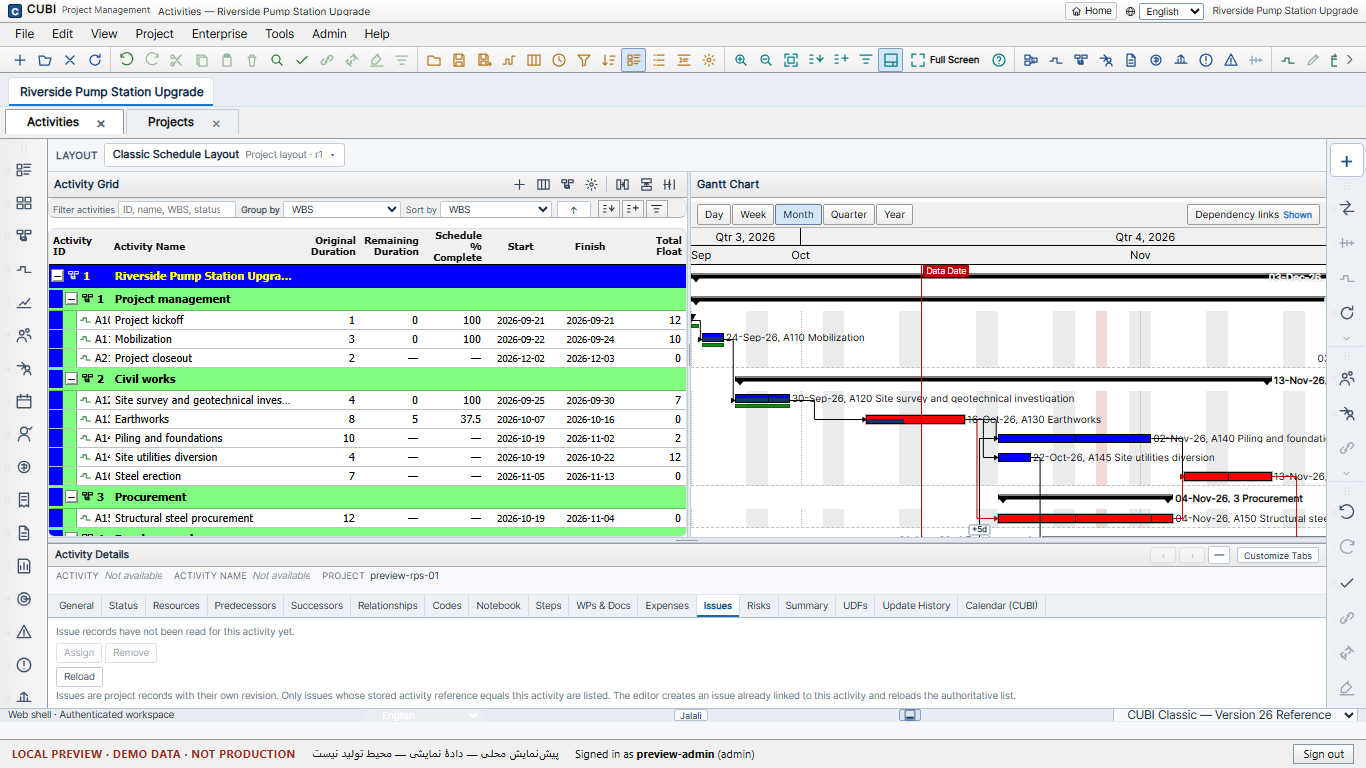
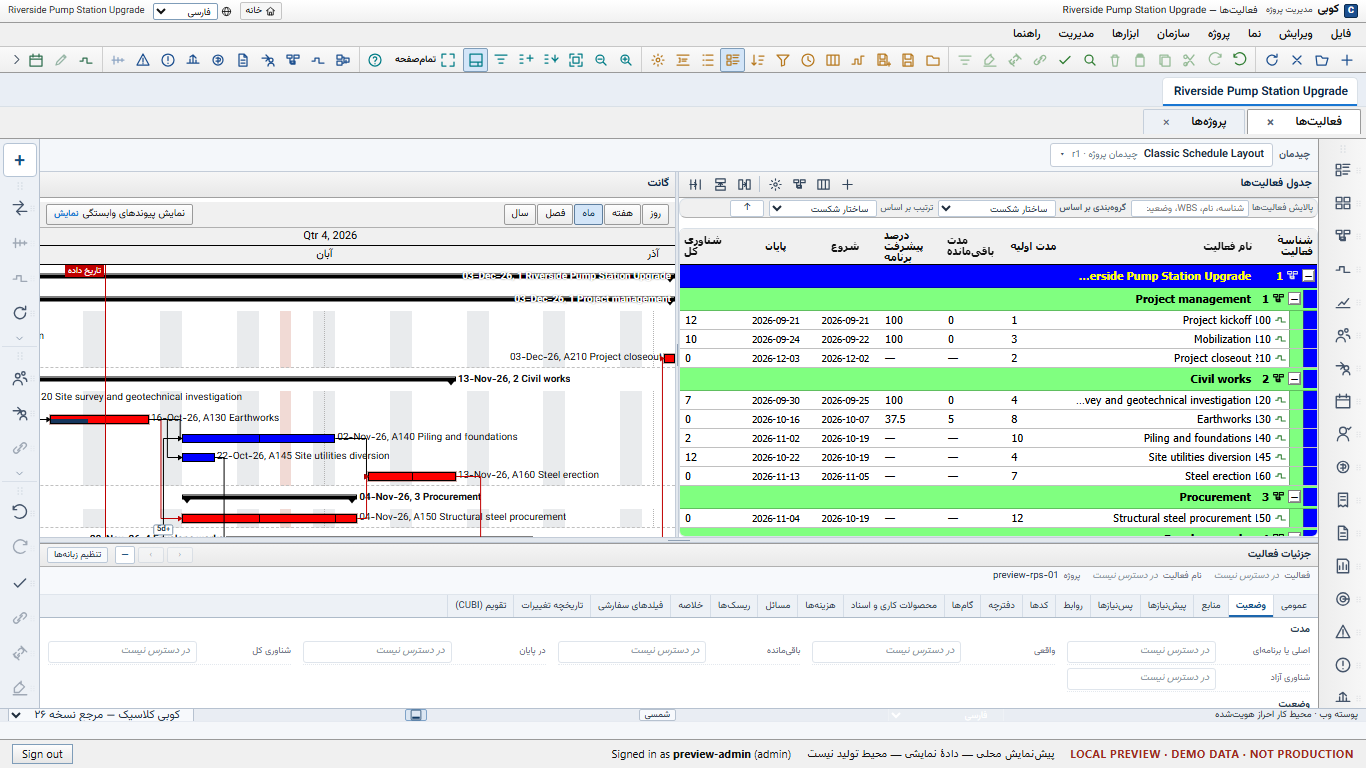
feat(activities): keyboard model for details tabs and V26 acceptance matrix
Only the active Activity Details tab is in the tab order, so keyboard users
had no way to move between tabs. ArrowLeft/ArrowRight, Home and End now move
focus, aria-selected and the visible panel together, wrap at both ends, and
follow the rendered text direction so Persian RTL advances with ArrowLeft.

The details browser suite asserts the full sequence in English and Persian and
records the result; the evidence bundle is regenerated from the passing run.
Adds the 18-column Activity workspace acceptance matrix with per-item status,
gap classification, owner and next action, and links it from the traceability
record without changing any file owned by another active PR.

diff --git a/apps/web/src/workspace-activity-details.ts b/apps/web/src/workspace-activity-details.ts
@@ -2353,9 +2353,33 @@ export function enhanceActivityDetails(
   });
 
   host.addEventListener("keydown", (event) => {
-    if (event.key !== "ContextMenu" && !(event.shiftKey && event.key === "F10")) return;
     const target = event.target as HTMLElement | null;
     if (!target || typeof target.closest !== "function") return;
+
+    // ARIA tablist keyboard model: only the active tab is in the tab order, so
+    // the arrow, Home and End keys must move both focus and selection. The
+    // horizontal direction follows the rendered text direction so Persian RTL
+    // does not reverse the user's expectation.
+    const tab = target.closest<HTMLElement>("[data-detail-tab]");
+    if (tab && ["ArrowLeft", "ArrowRight", "Home", "End"].includes(event.key)) {
+      const tabs = [...host.querySelectorAll<HTMLElement>("[data-detail-tab]")];
+      const current = tabs.indexOf(tab);
+      if (current < 0 || tabs.length === 0) return;
+      event.preventDefault();
+      const rtl = getComputedStyle(tab).direction === "rtl" || document.documentElement.dir === "rtl";
+      let next = current;
+      if (event.key === "Home") next = 0;
+      else if (event.key === "End") next = tabs.length - 1;
+      else if (event.key === "ArrowRight") next = rtl ? current - 1 : current + 1;
+      else next = rtl ? current + 1 : current - 1;
+      next = ((next % tabs.length) + tabs.length) % tabs.length;
+      const nextTab = tabs[next];
+      nextTab.focus();
+      nextTab.click();
+      return;
+    }
+
+    if (event.key !== "ContextMenu" && !(event.shiftKey && event.key === "F10")) return;
     if (target.closest("[data-details-customize-dialog]")) return;
     event.preventDefault();
     const anchor = target.closest<HTMLElement>("[data-detail-tab], .cp-details-head") ?? host;

diff --git a/docs/workspace/evidence/activity-workspace-v26-2026-11-18/acceptance-matrix.md b/docs/workspace/evidence/activity-workspace-v26-2026-11-18/acceptance-matrix.md
@@ -1,0 +1,88 @@
+# Activity Workspace — Version 26 Acceptance Matrix
+
+Scope: Issue #2047, CUBI Engineering Activities workspace.
+Code under test: branch `feat/2047-activity-workspace-v26`, head `a2b558bf` plus the
+keyboard-navigation increment in this directory's run (final SHA recorded in
+`summary.md` after the push).
+Reference: Oracle Primavera P6 Professional Version 26 HTML Help
+(`https://docs.oracle.com/cd/G48902_01/client_help/en_US/toc.htm`).
+The approximately 815-page supplied PDF is **MISSING / VERIFY** in this environment.
+
+Status vocabulary (exactly as required by the execution instruction):
+`مطابق و تأییدشده` · `پیادهسازیشده ولی آزموننشده` · `ناقص` · `غایب` ·
+`محدودیت مستند و مشخص` · `VERIFY` · `BLOCKED`
+
+"Verified today" means the browser suite was run on 2026-11-18 against this branch and the
+report is in `docs/workspace/evidence/` for that date. Older suites are named but were not
+re-run on the current head; they are therefore not marked as accepted.
+
+## 1. Activity Details tabs
+
+| # | Feature / Control | Official V26 Source | Navigation Path | Available Options | Default State | Visibility Conditions | Expected Behavior | Data Source | Permission | Validation | Error Behavior | Persistence | Test Coverage | Evidence Reference | Status | Blocker / Missing Dependency | Next Action | Owner |
+|---|---|---|---|---|---|---|---|---|---|---|---|---|---|---|---|---|---|---|
+| 1 | Activity Details — General (read) | general_tab_-_activity_details.htm | Activities › select row › Details › General | 6 activity types, 4 duration types, 4 percent-complete types shown; ID, cost account, leveling priority | First tab | Activity selected, Details pane visible | Shows stored Activity Master values; unknown values read "Not available" | `GET /p6/activities/{id}`; workspace read model cells | project.read | none | none | read-only | `activity-details-v26.mjs`, `activity-general-edit-v26.mjs` (today) | `evidence/activity-details-tabs-v26-2026-11-18/`, `evidence/activity-general-edit-v26-2026-11-18/` | مطابق و تأییدشده | — | — | Hasan |
+| 2 | Activity Details — General (edit) | general_tab_-_activity_details.htm; customize_activity_column_titles.htm | Details › General › Load editable fields | Name, activity type, duration type, percent-complete type, cost account | Loaded from record | `canWrite` and transport available | Loads record, PATCHes only changed fields with `expected_revision`; surfaces `REVISION_CONFLICT` | `PATCH /p6/activities/{id}` | project.write | name 1–180; enum membership | inline code, revision shown | yes, verified by reload | `workspace-activity-general.test.ts` (9), `activity-general-edit-v26.mjs` (today, EN + FA RTL 1280/1920) | `evidence/activity-general-edit-v26-2026-11-18/` | مطابق و تأییدشده | Grid repaint on next project read only (no refresh callback in owned files) | Add refresh callback after handoff | Hasan / #1716, #1983 |
+| 3 | Activity Details — Status | status_tab_-_activity_details.htm | Details › Status | read durations/status/units + constraint add/remove | Read | Activity selected | Shows stored values; constraint form writes through constraint API | activity master cells; `/p6/constraints` | project.write for constraints | date required | inline code | constraint write via API (suite not re-run today) | `activity-details-v26.mjs` (read state today) | `evidence/activity-details-tabs-v26-2026-11-18/` | پیادهسازیشده ولی آزموننشده | Constraint write path not re-run on current head | Re-run constraint scenario | Hasan |
+| 4 | Activity Details — Resources | resources_tab_-_activity_details.htm | Details › Resources | assignment rows + add-assignment form | empty/loaded | `canWrite` for form | Reads `/p6/resource-assignments`; creates one assignment and reloads authoritative list | assignment service | project.write | resource id required | inline code | verified today (row reloaded) | `activity-details-v26.mjs` write `resources` | `evidence/activity-details-tabs-v26-2026-11-18/` | مطابق و تأییدشده | Existing-assignment edit/remove not offered | Confirm with contract owner | Hasan |
+| 5 | Activity Details — Predecessors | predecessors_tab_-_activity_details.htm | Details › Predecessors | relationship rows + Go To | Read | Activity selected | Shows stored predecessors, type, lag; add/remove is in the Logic panel, not duplicated here | workspace relationships | project.read | — | — | read-only | today (tab state) | `evidence/activity-details-tabs-v26-2026-11-18/` | ناقص | Tab has no Add/Remove; relationship edits live in the Logic panel | Decide canonical single editor with owner | Hasan / #2009 |
+| 6 | Activity Details — Successors | successors_tab_-_activity_details.htm | Details › Successors | relationship rows + Go To | Read | Activity selected | Same as Predecessors | workspace relationships | project.read | — | — | read-only | today (tab state) | same | ناقص | same | same | Hasan / #2009 |
+| 7 | Activity Details — Relationships | relationships_tab_-_activity_details.htm | Details › Relationships | predecessor + successor sections, Gantt dates | Read | Activity selected | Read-only composition; FS/SS/FF/SF and signed lag rendered as stored | workspace relationships | project.read | — | — | read-only | today (tab state) | same | ناقص | No edit affordance on the tab | Handoff decision | Hasan |
+| 8 | Activity Details — Codes | codes_tab_-_activity_details.htm | Details › Codes | ID/WBS + empty assignment list | Empty | Activity selected | States that no assignment is returned; never invents codes | — | project.read | — | — | none | today (tab state) | same | BLOCKED | API / CONTRACT MISSING: code definitions exist, no assignment HTTP route | Request assignment endpoint | Platform |
+| 9 | Activity Details — Notebook | notebook_tab_-_activity_details.htm | Details › Notebook | browser-local notes from Comments rail | Empty | Activity selected | Clearly labels notes as browser-local, not P6 notebook records | localStorage | local | — | — | local only | today (tab state) | same | محدودیت مستند و مشخص | CONTRACT MISSING: no persisted notebook topic service | Add contract when authorized | Platform |
+| 10 | Activity Details — Steps | steps_tab_-_activity_details.htm | Details › Steps | stored steps (sequence, name, weight, dates, UDFs) | Loaded/empty | Activity selected | Reads `/p6/activities/{id}/steps`; no completion column invented | step read API | project.read | — | — | read-only | today (A130 seeded steps in suite) | same | محدودیت مستند و مشخص | API MISSING: no step write route | Request step write contract | Platform |
+| 11 | Activity Details — WPs & Docs | 19419.htm | Details › WPs & Docs | linked project documents + details | Loaded/empty | Activity selected | Lists documents whose linked ref matches the activity; upload/download stay on Documents page | document service | project.read | — | — | read-only | today (tab state) | same | محدودیت مستند و مشخص | No per-activity assignment write route | Keep single document authority | Platform |
+| 12 | Activity Details — Expenses | expenses_tab_-_activity_details.htm | Details › Expenses | expense rows + add form | empty/loaded | `canWrite` for form | Reads cost service by activity; creates expense and reloads | cost service | project.write | name/category/currency required | inline code | verified today | `activity-details-v26.mjs` write `expenses` | same | مطابق و تأییدشده | Edit/remove not offered | Confirm with contract owner | Hasan |
+| 13 | Activity Details — Issues | issues.htm (CUBI extension) | Details › Issues | issue rows + add form | empty/loaded | `canWrite` for form | Creates linked issue; reloads authoritative list; labelled CUBI extension | issue service | project.write | title/type/status/priority/owner required | inline code | verified today | `activity-details-v26.mjs` write `issues` | same | مطابق و تأییدشده | Not an Oracle-native tab | Keep label | Hasan |
+| 14 | Activity Details — Risks | 48816.htm | Details › Risks | project risk rows | Loaded/empty | Activity selected | Project-register read surface; no per-activity FK is fabricated | risk service | project.read | — | — | read-only | today (tab state) | same | محدودیت مستند و مشخص | No activity-risk relationship in the model | Document as product limitation | Hasan |
+| 15 | Activity Details — Summary | activity_details.htm (parent topic) | Details › Summary | units/cost/dates views | Dates view | Activity selected | Values only from authoritative cells; missing values stay empty | workspace read model | project.read | — | — | read-only | today (tab state) | same | پیادهسازیشده ولی آزموننشده | Roll-up numeric parity not re-audited | Re-run summary assertions | Hasan |
+| 16 | Activity Details — UDFs | activity_details.htm (parent topic) | Details › UDFs | typed editors per registry | Loaded/empty | `writable` fields only | Writes typed values through UDF API | field registry + UDF API | project.write | type/unit rules | inline code | API persisted (suite not re-run today) | earlier `activity-udf-values-v26.mjs` | — | پیادهسازیشده ولی آزموننشده | Not re-run on current head | Re-run UDF suite | Hasan |
+| 17 | Activity Details — Update History | 103015.htm | Details › Update History | revision events, before/after | Loaded/empty | Activity selected | Reads progress history; never fabricates events | `/progress-history` | project.read | — | — | read-only | today (read state) | same | مطابق و تأییدشده | — | — | Hasan |
+| 18 | Activity Details — Calendar (CUBI) | calendars.htm | Details › Calendar (CUBI) | selected/inherited calendar | Loaded/empty | Activity selected | Read-only; scheduling semantics stay in the engine | calendar service | project.read | — | — | read-only | today (tab state) | same | پیادهسازیشده ولی آزموننشده | Inherited-resolution assertions not re-run | Re-run calendar suite | Hasan |
+| 19 | Details tab keyboard model | use_shortcut_menus.htm; accessibility | Details tablist | ArrowLeft/Right, Home, End | Active tab only in tab order | Tabs rendered | Focus, selection and panel move together; direction follows RTL | ARIA tablist | — | — | — | not persisted | `activity-details-v26.mjs` keyboard block (today, EN + FA) | `evidence/activity-details-tabs-v26-2026-11-18/details-tabs-keyboard-fa-1366.png` | مطابق و تأییدشده | — | — | Hasan |
+| 20 | Customize Activity Details | customize_activity_details.htm | Details › Customize Tabs | available/displayed lists, add/remove/all/up/down/default/apply/cancel | All 17 | Details visible | Display set applies and survives reload | localStorage | — | at least one tab | — | per-browser | `activity-details-v26.mjs` customize block (today) | same | مطابق و تأییدشده | — | — | Hasan |
+| 21 | Loading / empty / error / unauthorized states | — | Each data tab | labelled states | idle | transport errors | Unauthorized copy names the permission problem; raw codes not leaked | tab reads | project.read | — | localized | — | `activity-details-v26.mjs` (today) | same | مطابق و تأییدشده | — | — | Hasan |
+| 21a | No activity selected (activity mode) | activity_details.htm | Activities › empty project or cleared selection | tab surfaces | — | No row selected | Currently renders tab fields as "Not available"; an explicit empty state is not proven | workspace state | — | — | — | — | not covered | — | VERIFY | The rendered state is truthful but has no dedicated empty-state copy or test | Add empty-state copy + assertion in the details suite | Hasan |
+
+## 2. Activity Table, columns, sort, group, filters
+
+| # | Feature / Control | Official V26 Source | Navigation Path | Available Options | Default State | Visibility Conditions | Expected Behavior | Data Source | Permission | Validation | Error Behavior | Persistence | Test Coverage | Evidence Reference | Status | Blocker / Missing Dependency | Next Action | Owner |
+|---|---|---|---|---|---|---|---|---|---|---|---|---|---|---|---|---|---|---|
+| 22 | Activity Table required field inventory | activitytable.htm | Activities › grid | ID, name, WBS, type, status, durations, dates, float, critical, percent, calendar, constraints, resources, relationships, baseline, codes, UDFs | Layout columns | Activities window | Each cell comes from the read model or reads "—"; no client calculation | workspace read model | project.read | — | — | layout persisted | field aliases in `workspace_read_provider.py`; suites not re-run today | — | VERIFY | Calendar, codes, UDF and baseline cells not re-audited on this head; several need contracts | Field-by-field re-audit | Hasan |
+| 23 | Columns dialog | define_activity_table_columns.htm; customize_activity_column_titles.htm | Layout › Columns | available/displayed, add/all/remove/all, up/down, default, apply, cancel, width/alignment/title | Saved layout | Activities window | Changes the actual table and persists per layout | `/p6/layouts/project/activity` | project.write | layout revision | conflict surfaced | yes (layout revisions) | earlier `activity-columns-v26.mjs` (11 scenarios) | Nov-15 evidence | پیادهسازیشده ولی آزموننشده | Not re-run on current head | Re-run columns suite | Hasan |
+| 24 | Sorting | sort_activities.htm | Layout › Sort | field, ascending/descending, multi-level | Layout sort | Activities window | Reorders displayed rows stably; interacts with filters | layout | project.write | revision | conflict surfaced | yes | earlier `activity-group-sort-v26.mjs` | Nov-15 evidence | پیادهسازیشده ولی آزموننشده | Not re-run | Re-run group-sort suite | Hasan |
+| 25 | Grouping / WBS path | group_activities_by_field.htm; group_activities_by_wbs_path.htm | Layout › Group and Sort | group field(s), WBS path, expand/collapse, bands | Layout group | Activities window | Groups rows, bands expand/collapse and persist | layout | project.write | revision | conflict surfaced | yes | earlier `activity-group-sort-v26.mjs`, `activity-wbs-band-v26.mjs` | Nov-15 evidence | پیادهسازیشده ولی آزموننشده | Not re-run | Re-run suites | Hasan |
+| 26 | WBS indentation coherence | group_activities_by_wbs_path.htm | Activities › WBS bands/rows | indentation, expand/collapse | Expanded | WBS group active | Rows, Gantt and selection stay aligned in every column | workspace state | project.read | — | — | persisted collapse | earlier `activity-wbs-collapse-v26.mjs` (19 checks) | Nov-15 evidence | پیادهسازیشده ولی آزموننشده | Not re-run | Re-run WBS suite | Hasan |
+| 27 | Filters / advanced criteria | filter_a_layout.htm; create_a_filter.htm; apply_a_filter.htm; filtering_data.htm | Layout › Filters | categories, All/Any, rows, operators, typed values, replace/highlight, preview, apply, reset | No filter | Activities window | Filters the actual rows; Replace vs Highlight; preview count | layout + filter contract | project.write | value typing | inline code | saved filter | earlier `activity-filters-v26.mjs` (14 scenarios) | Nov-15 evidence | پیادهسازیشده ولی آزموننشده | Not re-run | Re-run filter suite | Hasan |
+
+## 3. Gantt, menus, context menus, keyboard, layout
+
+| # | Feature / Control | Official V26 Source | Navigation Path | Available Options | Default State | Visibility Conditions | Expected Behavior | Data Source | Permission | Validation | Error Behavior | Persistence | Test Coverage | Evidence Reference | Status | Blocker / Missing Dependency | Next Action | Owner |
+|---|---|---|---|---|---|---|---|---|---|---|---|---|---|---|---|---|---|---|
+| 28 | Gantt bars, milestones, summary, baseline, critical | ganttchart.htm; the_gantt_chart.htm | Activities › Gantt | bar types, colors, patterns | Layout bars | Gantt visible | Bars/milestones render stored facts only; no browser-derived dates | schedule facts | project.read | — | — | layout | earlier `gantt-bar-styles-v26.mjs` | Nov-15 evidence | پیادهسازیشده ولی آزموننشده | Not re-run | Re-run Gantt suites | Hasan |
+| 29 | Data date, progress line, overlays | applying_a_progress_line_to_the_gantt_chart.htm | Gantt › overlays | data date line, progress line, baseline | On | Gantt visible | Overlays read the published snapshot | schedule snapshot | project.read | — | — | layout | earlier `activity-gantt-overlays-v26.mjs` | Nov-15 evidence | پیادهسازیشده ولی آزموننشده | Not re-run | Re-run overlay suite | Hasan |
+| 30 | Timescale, zoom, best fit | change_a_layout_s_timescale_format_50.htm | Gantt › timescale / zoom | day/week/month/quarter/year; zoom; fit | Quarter | Gantt visible | Changes the visible scale without altering schedule facts | layout | project.write | revision | conflict | yes | earlier `gantt-options-v26.mjs`, `gantt-fit-v26.mjs` | Nov-15 evidence | پیادهسازیشده ولی آزموننشده | Not re-run | Re-run suites | Hasan |
+| 31 | Relationship arrows and drag editing | create_relationships_in_the_gantt_chart.htm | Gantt bars › links | FS/SS/FF/SF, signed lag, delete | On | Editable | Drag writes through the relationship API; arrows match stored links | relationship contract | project.write | type/lag | surfaced | yes | earlier `activity-relationships-v26.mjs` (11 scenarios) | Nov-15 evidence | پیادهسازیشده ولی آزموننشده | Not re-run | Re-run relationship suite | Hasan |
+| 32 | Grid ↔ Gantt scroll/selection sync | the_gantt_chart.htm | Activities split | selection, vertical scroll, WBS collapse | Synced | Both panes visible | Selection, scroll and rows stay aligned | workspace state | project.read | — | — | prefs | earlier `gantt-scroll-sync-v26.mjs` | Nov-15 evidence | پیادهسازیشده ولی آزموننشده | Not re-run | Re-run sync suite | Hasan |
+| 33 | Table / WBS / Gantt / Details context menus | use_shortcut_menus.htm | Right-click surfaces | per-surface command lists | — | Surface present | Commands route to real actions or a localized disabled reason | command registry | role | — | — | — | earlier `context-menus-v26.mjs` (92 checks) | Nov-15 evidence | پیادهسازیشده ولی آزموننشده | Not re-run | Re-run context suite | Hasan |
+| 34 | Grid keyboard and roving focus | use_shortcut_menus.htm | Activities grid | arrows, Home/End, Enter, Shift+F10 | First cell | Grid focused | Focus and selection follow the grid model | workspace state | — | — | — | — | earlier `activity-grid-keyboard-v26.mjs` | Nov-15 evidence | پیادهسازیشده ولی آزموننشده | Not re-run | Re-run keyboard suite | Hasan |
+| 35 | Details keyboard tab model | accessibility | Details › tabs | ArrowLeft/Right, Home, End | Active tab | Tabs rendered | Focus/selection/panel move together; RTL aware | ARIA tablist | — | — | — | — | verified today (EN + FA) | `evidence/activity-details-tabs-v26-2026-11-18/` | مطابق و تأییدشده | — | — | Hasan |
+| 36 | Details pane show/hide and layout modes | using_main_windows.htm | View › Details / layout selector | details, usage, trace logic, hidden | Details | Activities window | Correct pane switching without changing the default split | workspace shell | — | — | — | local prefs | not re-audited today | — | VERIFY | Shell files owned by #1716/#1983 | Re-audit after handoff | Hasan |
+| 37 | Default Activity/Gantt split | layout toolbar | Activities split | approved default geometry | Preserved | Activities window | No 53.5% import; approved proportions kept | CSS shell | — | — | — | — | earlier suites | Nov-15 evidence | پیادهسازیشده ولی آزموننشده | Geometry change not approved | Re-check with shell owner | Hasan |
+| 38 | Menu bar, toolbars, layout bar | menu_bar.htm; layout_toolbar.htm | Global shell | menus, toolbar families, rails | Visible | Workspace | Commands enabled only when they can act | command registry | role | — | — | — | earlier `toolbars-v26.mjs` | Nov-15 evidence | پیادهسازیشده ولی آزموننشده | Not re-run | Re-run toolbar suite | Hasan |
+| 39 | Localization EN + FA RTL | — | Global | 9 locales | EN | All | Functional RTL layout, not only labels | i18n | — | — | — | preference | verified today for Details + General editor (FA, 1280/1920) | `evidence/activity-general-edit-v26-2026-11-18/` | مطابق و تأییدشده | Workspace-wide RTL capture is wider than this increment | Extend in next pass | Hasan |
+| 40 | Grid refresh after a Details edit | define_activity_table_columns.htm | Details › Save | — | — | After save | Details repaints immediately; grid updates on next project read | activity master | project.write | revision | code shown | server yes; grid delayed | today | `evidence/activity-general-edit-v26-2026-11-18/` | BLOCKED | OWNERSHIP / HANDOFF REQUIRED: `main.ts`, `workspace-view.ts` owned by #1716/#1711/#1983 | Add refresh callback after handoff | Hasan / owners |
+| 41 | Percent-complete type in the table | activitytable.htm | Activities › grid | DURATION/UNITS/PHYSICAL/SCOPE | — | Column added | Cell shows the stored value | read model | project.read | — | — | — | editor verified today | — | BLOCKED | OWNERSHIP: `workspace_read_provider.py` owned by #1983 | Add `activity.percent_complete_type` after handoff | Hasan / #1983 |
+| 42 | Activity code assignment | codes_tab_-_activity_details.htm | Details › Codes | code value per activity | — | — | Assign/remove codes | assignment repository exists | project.write | — | — | — | none | — | BLOCKED | API / CONTRACT MISSING: no HTTP route for assignments | Request endpoint | Platform |
+| 43 | Supplied 815-page PDF | — | — | — | — | — | Page references re-keyed | — | — | — | — | — | — | — | VERIFY | MISSING / VERIFY: file not available in this environment | Supply the PDF | Owner |
+
+## 4. Classification summary
+
+| Category | Items |
+|---|---|
+| UI MISSING | None found in the Activity Details scope; relationship add/remove on tabs is intentionally not duplicated (Logic panel is the editor). |
+| API / CONTRACT MISSING | Activity code assignments (#42), persisted Notebook (#9), step writes (#10), per-activity document assignment (#11). |
+| PERMISSION RESTRICTED | Read-only users see disabled writers with a reason; server re-authorizes every request. |
+| SERVICE NOT CONNECTED | None known for the verified scope. |
+| PRODUCT LIMITATION | Risks are a project register (#14); Notebook is browser-local (#9). |
+| OWNERSHIP / HANDOFF REQUIRED | Grid refresh (#40), percent-complete-type cell (#41). |
+| EVIDENCE MISSING | All Nov-15 suites not re-run on this head (#22–#34, #36–#38). |

diff --git a/docs/workspace/evidence/activity-window-v26-2026-11-15/v26-traceability.md b/docs/workspace/evidence/activity-window-v26-2026-11-15/v26-traceability.md
@@ -65,6 +65,10 @@ Parity statement, stated precisely:
 Browser proof: `activity-details-v26.mjs` renders all seventeen tabs in contract order with
 Calendar last, every data tab settles into idle/loading/loaded/empty/error/unauthorized
 states, three write paths round-trip, and removing a tab in Customize survives a reload.
+The same suite now proves the ARIA tablist keyboard model — ArrowLeft/ArrowRight, Home and
+End move focus, `aria-selected` and the visible panel together, wrapping at both ends, and
+follow the rendered text direction in Persian RTL
+(`docs/workspace/evidence/activity-details-tabs-v26-2026-11-18/`).
 `context-menus-v26.mjs` opens the same Customize dialog from the details context menu and
 checks the full V26 control set (Available/Display columns, add, add-all, remove,
 remove-all, up, down, default, apply, cancel) in English and Persian RTL.
@@ -178,3 +182,24 @@ node e2e/activity-details-v26.mjs
 
 Each suite writes its own bundle under `docs/workspace/evidence/<suite>-2026-11-15/`; the
 run summary and counts are recorded in `summary.md` and `evidence.json` in this directory.
+
+## 10. 2026-11-18 increments (PR #2048)
+
+- **General tab edit path.** `workspace-activity-general.ts` loads the Activity Master
+  record, PATCHes only changed fields with `expected_revision`, and surfaces
+  `REVISION_CONFLICT`. Browser proof (EN 1366, FA RTL 1280/1920, reload persistence,
+  restore): `docs/workspace/evidence/activity-general-edit-v26-2026-11-18/`.
+- **Activity Details keyboard model.** ArrowLeft/ArrowRight, Home and End move focus,
+  `aria-selected` and the visible panel together, wrap at both ends and follow RTL.
+  Regenerated proof: `docs/workspace/evidence/activity-details-tabs-v26-2026-11-18/`.
+- **Acceptance matrix.** The 18-column matrix with per-item status, classification,
+  owner and blocker is `docs/workspace/evidence/activity-workspace-v26-2026-11-18/acceptance-matrix.md`.
+- **Not re-run on this head.** The remaining November-15 suites (`activity-columns`,
+  `activity-filters`, `activity-group-sort`, `gantt-*`, `context-menus`,
+  `activity-grid-keyboard`, `activity-wbs-*`, `activity-relationships`, `activity-udp-values`
+  and the other Activity suites) have not been executed against this branch. Their items
+  stay `پیادهسازیشده ولی آزموننشده` in the matrix and must not be read as accepted.
+- **Open blockers.** Grid repaint after a Details edit (owned shell files), the
+  `activity.percent_complete_type` cell (owned read provider) and activity-code assignment
+  (no HTTP route) are recorded as `BLOCKED` with owners in the matrix.
+

diff --git a/docs/workspace/evidence/activity-workspace-v26-2026-11-18/summary.md b/docs/workspace/evidence/activity-workspace-v26-2026-11-18/summary.md
@@ -1,0 +1,43 @@
+# Activity Workspace — 2026-11-18 increment
+
+Issue #2047, PR #2048, branch `feat/2047-activity-workspace-v26`.
+
+## Delivered in this increment
+
+1. **Activity Details General tab edit path** (increment 1)
+   - `apps/web/src/workspace-activity-general.ts` and its 9 unit tests.
+   - Loads the Activity Master record, writes only changed fields with `expected_revision`,
+     surfaces `REVISION_CONFLICT`, and never derives schedule facts in the browser.
+   - Browser proof: `activity-general-edit-v26.mjs` — EN 1366x768, FA RTL 1280x720 and
+     1920x1080, reload persistence and restore.
+
+2. **Activity Details tab keyboard model** (increment 2)
+   - ArrowLeft/ArrowRight, Home and End move focus, `aria-selected` and the visible panel
+     together, wrap at both ends, and follow the rendered text direction in Persian RTL.
+   - Proof inside `activity-details-v26.mjs` (EN and FA), report keys `keyboard` and
+     `keyboardRtl`.
+
+3. **Acceptance matrix**
+   - `acceptance-matrix.md` in this directory: 18 required columns, 43 items, exact status
+     vocabulary, classification of every gap, owner and next action.
+
+## Verification (2026-11-18, this branch)
+
+- `npm run typecheck` — clean.
+- `npm test` — 1177 source tests + 15 preview-server tests, 0 failed.
+- `npm run build` — clean.
+- `node e2e/activity-details-v26.mjs` — pass: 17 tabs, keyboard EN + FA, three write paths,
+  unauthorized state, stale-response guard; no console errors, no API failures.
+- `node e2e/activity-general-edit-v26.mjs` — pass: 6/4/4 option catalogues, revision-guarded
+  PATCH, reload persistence, restore, RTL 1280/1920.
+- Evidence images:
+  - `../activity-details-tabs-v26-2026-11-18/` (EN, FA keyboard)
+  - `../activity-general-edit-v26-2026-11-18/` (EN, FA)
+
+## Not verified in this run
+
+- All other November-15 Activity suites listed in `v26-traceability.md` were not re-run on
+  this head; their matrix rows stay `پیادهسازیشده ولی آزموننشده`.
+- Grid refresh after a Details edit and the `percent_complete_type` table cell remain
+  `BLOCKED` on files owned by other active PRs.
+- The approximately 815-page supplied PDF is **MISSING / VERIFY**.
